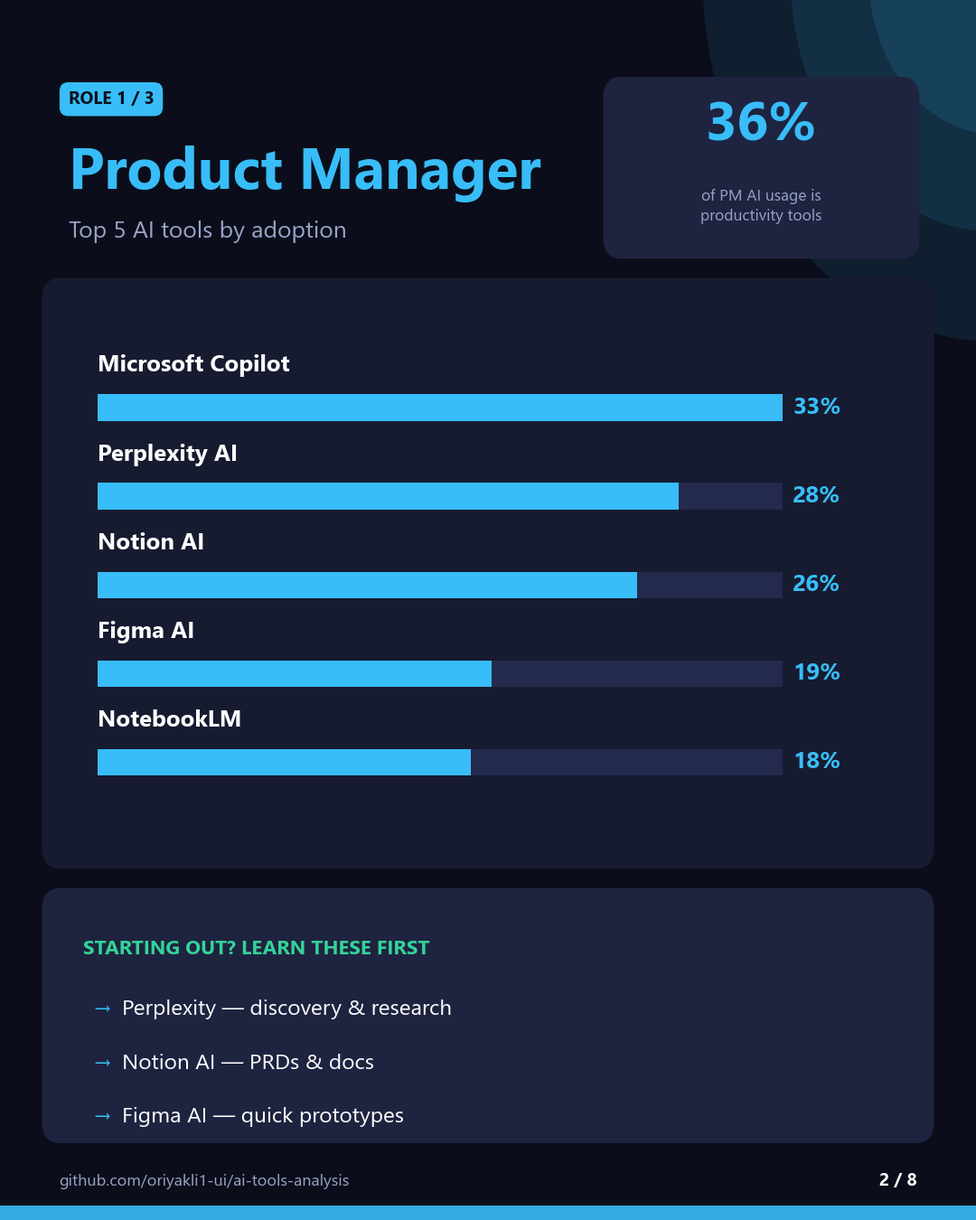
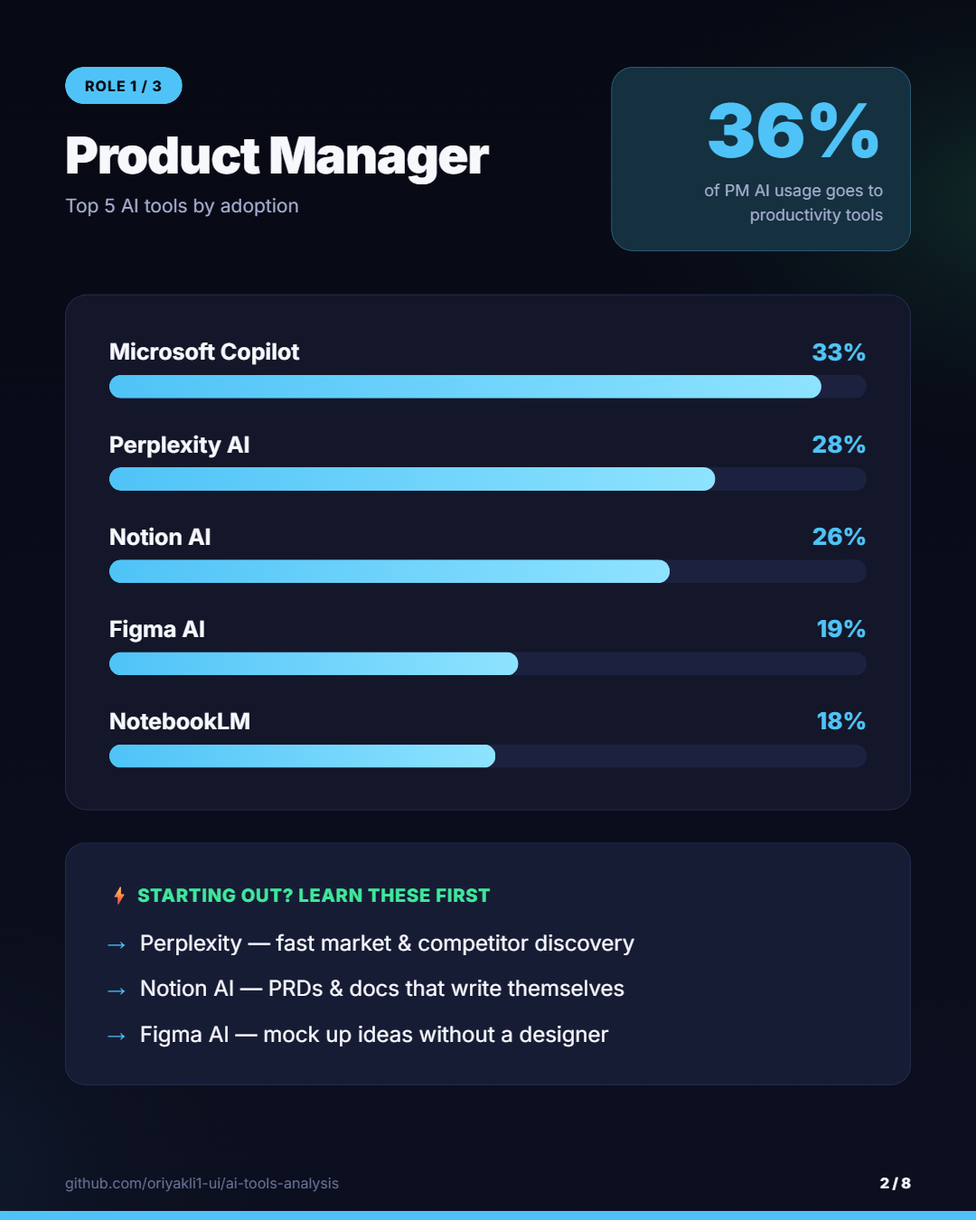
Rebuild carousel as HTML/CSS for crisper typography and real gradients
Replaces matplotlib-rendered slides with an HTML/CSS template
(Inter + JetBrains Mono, card system, gradient accents, glow decor)
rendered via headless browser + html2canvas at true 1080x1350.
Enlarged content and centered layout to remove excess empty space
while keeping slides within bounds (no overflow/clipping).

diff --git a/carousel/html/slides.html b/carousel/html/slides.html
@@ -1,0 +1,363 @@
+<!doctype html>
+<html lang="en">
+<head>
+<meta charset="utf-8">
+<title>AI Tools Carousel</title>
+<link rel="preconnect" href="https://fonts.googleapis.com">
+<link rel="preconnect" href="https://fonts.gstatic.com" crossorigin>
+<link href="https://fonts.googleapis.com/css2?family=Inter:wght@400;500;600;700;800;900&family=JetBrains+Mono:wght@400;500;600&display=swap" rel="stylesheet">
+<style>
+  :root{
+    --bg:#070914; --bg2:#0c0f1f; --card:#131729; --card2:#171c35; --border:#242b4a;
+    --text:#f7f8fc; --muted:#a6afd1; --muted2:#6b7399;
+    --pm:#4fc3f7; --pm-dark:#15303f; --da:#ffb74d; --da-dark:#3f3015;
+    --pj:#e879f9; --pj-dark:#3a1740; --green:#3ee89b; --green-dark:#0c3626;
+  }
+  *{box-sizing:border-box; margin:0; padding:0;}
+  body{background:#333; font-family:'Inter',sans-serif;}
+  .slide{
+    width:1080px; height:1350px;
+    background:
+      radial-gradient(ellipse 950px 550px at 108% -8%, rgba(62,232,155,.16), transparent 60%),
+      radial-gradient(ellipse 750px 550px at -12% 112%, rgba(79,195,247,.10), transparent 60%),
+      linear-gradient(180deg, var(--bg) 0%, var(--bg2) 100%);
+    color:var(--text); position:relative; overflow:hidden; margin-bottom:40px;
+    display:flex; flex-direction:column;
+  }
+  .slide::after{ content:""; position:absolute; left:0; bottom:0; width:100%; height:10px; background:var(--accent, var(--green)); }
+  .pad{ padding:56px 72px; flex:1; display:flex; flex-direction:column; justify-content:center; }
+  .eyebrow{
+    display:inline-flex; align-items:center; gap:8px; align-self:flex-start;
+    background:var(--accent, var(--green)); color:#070914;
+    font-weight:800; font-size:16px; letter-spacing:.06em;
+    padding:11px 22px; border-radius:100px; text-transform:uppercase; margin-bottom:26px;
+  }
+  h1{ font-size:66px; font-weight:900; line-height:1.08; letter-spacing:-.02em; }
+  h1 .accent{ color:var(--accent, var(--green)); }
+  .lede{ font-size:27px; color:var(--muted); line-height:1.55; margin-top:30px; max-width:920px; }
+  .lede b{ color:var(--text); font-weight:700; }
+  .footer{ display:flex; justify-content:space-between; align-items:center; padding:24px 72px 32px; font-size:16px; color:var(--muted2); }
+  .footer b{ color:var(--text); font-weight:800; }
+  .card{ background:var(--card); border:1px solid var(--border); border-radius:24px; padding:46px 48px; }
+  .bar-row{ margin-bottom:34px; }
+  .bar-row:last-child{ margin-bottom:0; }
+  .bar-label{ display:flex; justify-content:space-between; align-items:baseline; margin-bottom:11px; }
+  .bar-name{ font-size:25px; font-weight:700; }
+  .bar-val{ font-size:26px; font-weight:800; }
+  .bar-track{ height:26px; background:#1c2140; border-radius:13px; overflow:hidden; }
+  .bar-fill{ height:100%; border-radius:13px; }
+  .hero-stat{ text-align:right; }
+  .hero-num{ font-size:82px; font-weight:900; line-height:1; }
+  .hero-cap{ font-size:18px; color:var(--muted); margin-top:12px; line-height:1.45; max-width:270px; }
+  .learn-box{ background:var(--card2); border:1px solid var(--border); border-radius:22px; padding:42px 46px; margin-top:36px; }
+  .learn-title{ font-size:20px; font-weight:800; color:var(--green); letter-spacing:.04em; margin-bottom:26px; }
+  .learn-item{ display:flex; gap:16px; font-size:24px; margin-bottom:22px; align-items:center; }
+  .learn-item:last-child{ margin-bottom:0; }
+  .learn-arrow{ font-weight:900; font-size:20px; }
+  .pill{ display:inline-flex; align-items:center; font-weight:800; font-size:33px; color:#070914; padding:26px 42px; border-radius:18px; }
+  .giant{ font-weight:900; line-height:.85; letter-spacing:-.04em; }
+  .mono{ font-family:'JetBrains Mono',monospace; font-size:20px; color:var(--green); background:#0a0d1c; border:1px solid var(--border); border-radius:18px; padding:36px 38px; line-height:1.85; white-space:pre; }
+  .num-badge{ width:80px; height:80px; border-radius:18px; display:flex; align-items:center; justify-content:center; font-weight:900; font-size:32px; flex-shrink:0; }
+  .grad-pm{ background:linear-gradient(135deg,#4fc3f7,#1a7fb5); }
+  .grad-da{ background:linear-gradient(135deg,#ffb74d,#c17f1e); }
+  .grad-pj{ background:linear-gradient(135deg,#e879f9,#a93fc2); }
+  .grad-green{ background:linear-gradient(135deg,#3ee89b,#1a9d68); }
+  .stat-tile{
+    background:var(--card2); border:1px solid var(--border); border-radius:20px;
+    padding:28px 26px; display:flex; align-items:center; gap:18px;
+  }
+  .stat-tile .ic{ font-size:34px; }
+  .stat-tile .tx{ font-size:21px; font-weight:700; color:var(--text); line-height:1.35; }
+</style>
+</head>
+<body>
+
+<!-- ============ SLIDE 1 — COVER ============ -->
+<div class="slide" id="s1" style="--accent:var(--green)">
+  <div class="pad">
+    <div class="eyebrow">★ Career Guide · 2026</div>
+    <h1>The AI tools that<br>actually <span class="accent">get you hired.</span></h1>
+    <div class="lede">
+      I analyzed 25+ AI tools from 2025–26 industry surveys, then removed
+      <b>ChatGPT, Claude & Gemini.</b> Everyone uses a chatbot — that's the
+      baseline now, not a differentiator. Here's what's actually left:
+    </div>
+
+    <div style="margin-top:50px; display:flex; flex-direction:column; gap:24px;">
+      <div class="pill grad-pm" style="width:fit-content;">Product Manager</div>
+      <div class="pill grad-da" style="width:fit-content;">Data Analyst</div>
+      <div class="pill grad-pj" style="width:fit-content;">Project Manager</div>
+    </div>
+
+    <div style="margin-top:60px; display:grid; grid-template-columns:1fr 1fr; gap:22px;">
+      <div class="stat-tile"><span class="ic">📊</span><span class="tx">Top 5 tools<br>per role</span></div>
+      <div class="stat-tile"><span class="ic">🎯</span><span class="tx">What to learn<br>first</span></div>
+      <div class="stat-tile"><span class="ic">🔗</span><span class="tx">The universal<br>stack</span></div>
+      <div class="stat-tile"><span class="ic">🛠</span><span class="tx">Open-source<br>method</span></div>
+    </div>
+
+    </div>
+  <div class="footer">
+    <span>Sources: Lenny's Newsletter · Stack Overflow · Microsoft · PMI</span>
+    <span><b>1 / 8</b></span>
+  </div>
+</div>
+
+<!-- ============ SLIDES 2-4 — ROLES ============ -->
+<!-- Product Manager -->
+<div class="slide" id="s2" style="--accent:var(--pm)">
+  <div class="pad">
+    <div style="display:flex; justify-content:space-between; align-items:flex-start;">
+      <div>
+        <div class="eyebrow" style="background:var(--pm);">Role 1 / 3</div>
+        <h1 style="font-size:56px;">Product Manager</h1>
+        <div style="font-size:21px; color:var(--muted); margin-top:12px;">Top 5 AI tools by adoption</div>
+      </div>
+      <div class="card hero-stat" style="background:var(--pm-dark); border-color:#2a5a73; min-width:250px; padding:28px 30px;">
+        <div class="hero-num" style="color:var(--pm);">36%</div>
+        <div class="hero-cap">of PM AI usage goes to productivity tools</div>
+      </div>
+    </div>
+
+    <div class="card" style="margin-top:48px;">
+      <div class="bar-row"><div class="bar-label"><span class="bar-name">Microsoft Copilot</span><span class="bar-val" style="color:var(--pm);">33%</span></div><div class="bar-track"><div class="bar-fill" style="width:94%; background:linear-gradient(90deg,#4fc3f7,#8ee3ff);"></div></div></div>
+      <div class="bar-row"><div class="bar-label"><span class="bar-name">Perplexity AI</span><span class="bar-val" style="color:var(--pm);">28%</span></div><div class="bar-track"><div class="bar-fill" style="width:80%; background:linear-gradient(90deg,#4fc3f7,#8ee3ff);"></div></div></div>
+      <div class="bar-row"><div class="bar-label"><span class="bar-name">Notion AI</span><span class="bar-val" style="color:var(--pm);">26%</span></div><div class="bar-track"><div class="bar-fill" style="width:74%; background:linear-gradient(90deg,#4fc3f7,#8ee3ff);"></div></div></div>
+      <div class="bar-row"><div class="bar-label"><span class="bar-name">Figma AI</span><span class="bar-val" style="color:var(--pm);">19%</span></div><div class="bar-track"><div class="bar-fill" style="width:54%; background:linear-gradient(90deg,#4fc3f7,#8ee3ff);"></div></div></div>
+      <div class="bar-row"><div class="bar-label"><span class="bar-name">NotebookLM</span><span class="bar-val" style="color:var(--pm);">18%</span></div><div class="bar-track"><div class="bar-fill" style="width:51%; background:linear-gradient(90deg,#4fc3f7,#8ee3ff);"></div></div></div>
+    </div>
+
+    <div class="learn-box">
+      <div class="learn-title">⚡ STARTING OUT? LEARN THESE FIRST</div>
+      <div class="learn-item"><span class="learn-arrow" style="color:var(--pm);">→</span> Perplexity — fast market & competitor discovery</div>
+      <div class="learn-item"><span class="learn-arrow" style="color:var(--pm);">→</span> Notion AI — PRDs & docs that write themselves</div>
+      <div class="learn-item"><span class="learn-arrow" style="color:var(--pm);">→</span> Figma AI — mock up ideas without a designer</div>
+    </div>
+    </div>
+  <div class="footer"><span>github.com/oriyakli1-ui/ai-tools-analysis</span><span><b>2 / 8</b></span></div>
+</div>
+
+<!-- Data Analyst -->
+<div class="slide" id="s3" style="--accent:var(--da)">
+  <div class="pad">
+    <div style="display:flex; justify-content:space-between; align-items:flex-start;">
+      <div>
+        <div class="eyebrow" style="background:var(--da);">Role 2 / 3</div>
+        <h1 style="font-size:56px;">Data Analyst</h1>
+        <div style="font-size:21px; color:var(--muted); margin-top:12px;">Top 5 AI tools by adoption</div>
+      </div>
+      <div class="card hero-stat" style="background:var(--da-dark); border-color:#73581a; min-width:250px; padding:28px 30px;">
+        <div class="hero-num" style="color:var(--da);">57%</div>
+        <div class="hero-cap">of analyst AI usage goes to BI & data tools</div>
+      </div>
+    </div>
+
+    <div class="card" style="margin-top:48px;">
+      <div class="bar-row"><div class="bar-label"><span class="bar-name">Microsoft Copilot</span><span class="bar-val" style="color:var(--da);">38%</span></div><div class="bar-track"><div class="bar-fill" style="width:100%; background:linear-gradient(90deg,#ffb74d,#ffe0a3);"></div></div></div>
+      <div class="bar-row"><div class="bar-label"><span class="bar-name">Power BI Copilot</span><span class="bar-val" style="color:var(--da);">36%</span></div><div class="bar-track"><div class="bar-fill" style="width:95%; background:linear-gradient(90deg,#ffb74d,#ffe0a3);"></div></div></div>
+      <div class="bar-row"><div class="bar-label"><span class="bar-name">GitHub Copilot</span><span class="bar-val" style="color:var(--da);">34%</span></div><div class="bar-track"><div class="bar-fill" style="width:89%; background:linear-gradient(90deg,#ffb74d,#ffe0a3);"></div></div></div>
+      <div class="bar-row"><div class="bar-label"><span class="bar-name">ChatGPT Advanced Data Analysis</span><span class="bar-val" style="color:var(--da);">29%</span></div><div class="bar-track"><div class="bar-fill" style="width:76%; background:linear-gradient(90deg,#ffb74d,#ffe0a3);"></div></div></div>
+      <div class="bar-row"><div class="bar-label"><span class="bar-name">Perplexity AI</span><span class="bar-val" style="color:var(--da);">22%</span></div><div class="bar-track"><div class="bar-fill" style="width:58%; background:linear-gradient(90deg,#ffb74d,#ffe0a3);"></div></div></div>
+    </div>
+
+    <div class="learn-box">
+      <div class="learn-title">⚡ STARTING OUT? LEARN THESE FIRST</div>
+      <div class="learn-item"><span class="learn-arrow" style="color:var(--da);">→</span> Power BI Copilot — core BI, highest-leverage skill</div>
+      <div class="learn-item"><span class="learn-arrow" style="color:var(--da);">→</span> GitHub Copilot — pairs with SQL & Python daily</div>
+      <div class="learn-item"><span class="learn-arrow" style="color:var(--da);">→</span> ChatGPT ADA — fast exploratory analysis</div>
+    </div>
+    </div>
+  <div class="footer"><span>github.com/oriyakli1-ui/ai-tools-analysis</span><span><b>3 / 8</b></span></div>
+</div>
+
+<!-- Project Manager -->
+<div class="slide" id="s4" style="--accent:var(--pj)">
+  <div class="pad">
+    <div style="display:flex; justify-content:space-between; align-items:flex-start;">
+      <div>
+        <div class="eyebrow" style="background:var(--pj);">Role 3 / 3</div>
+        <h1 style="font-size:56px;">Project Manager</h1>
+        <div style="font-size:21px; color:var(--muted); margin-top:12px;">Top 5 AI tools by adoption</div>
+      </div>
+      <div class="card hero-stat" style="background:var(--pj-dark); border-color:#73397a; min-width:250px; padding:28px 30px;">
+        <div class="hero-num" style="color:var(--pj);">72%</div>
+        <div class="hero-cap">of their AI usage is embedded workflow AI</div>
+      </div>
+    </div>
+
+    <div class="card" style="margin-top:48px;">
+      <div class="bar-row"><div class="bar-label"><span class="bar-name">Microsoft Copilot</span><span class="bar-val" style="color:var(--pj);">42%</span></div><div class="bar-track"><div class="bar-fill" style="width:100%; background:linear-gradient(90deg,#e879f9,#f5bcff);"></div></div></div>
+      <div class="bar-row"><div class="bar-label"><span class="bar-name">Notion AI</span><span class="bar-val" style="color:var(--pj);">22%</span></div><div class="bar-track"><div class="bar-fill" style="width:52%; background:linear-gradient(90deg,#e879f9,#f5bcff);"></div></div></div>
+      <div class="bar-row"><div class="bar-label"><span class="bar-name">Grammarly AI</span><span class="bar-val" style="color:var(--pj);">21%</span></div><div class="bar-track"><div class="bar-fill" style="width:50%; background:linear-gradient(90deg,#e879f9,#f5bcff);"></div></div></div>
+      <div class="bar-row"><div class="bar-label"><span class="bar-name">Jira AI (Atlassian Intelligence)</span><span class="bar-val" style="color:var(--pj);">19%</span></div><div class="bar-track"><div class="bar-fill" style="width:45%; background:linear-gradient(90deg,#e879f9,#f5bcff);"></div></div></div>
+      <div class="bar-row"><div class="bar-label"><span class="bar-name">Otter.ai</span><span class="bar-val" style="color:var(--pj);">16%</span></div><div class="bar-track"><div class="bar-fill" style="width:38%; background:linear-gradient(90deg,#e879f9,#f5bcff);"></div></div></div>
+    </div>
+
+    <div class="learn-box">
+      <div class="learn-title">⚡ STARTING OUT? LEARN THESE FIRST</div>
+      <div class="learn-item"><span class="learn-arrow" style="color:var(--pj);">→</span> Copilot in Office/Teams — where the work already is</div>
+      <div class="learn-item"><span class="learn-arrow" style="color:var(--pj);">→</span> Jira or Asana AI — automate planning & status</div>
+      <div class="learn-item"><span class="learn-arrow" style="color:var(--pj);">→</span> Otter.ai — never write meeting notes again</div>
+    </div>
+    </div>
+  <div class="footer"><span>github.com/oriyakli1-ui/ai-tools-analysis</span><span><b>4 / 8</b></span></div>
+</div>
+
+<!-- ============ SLIDE 5 — UNIVERSAL STACK ============ -->
+<div class="slide" id="s5" style="--accent:var(--green)">
+  <div class="pad">
+    <div style="font-size:26px; color:var(--muted); font-weight:600;">Out of 25+ tools, only</div>
+    <div style="display:flex; align-items:center; gap:40px; margin-top:6px;">
+      <div class="giant accent" style="font-size:270px; color:var(--green);">3</div>
+      <div>
+        <div style="font-size:42px; font-weight:800; line-height:1.25;">work across<br>all three roles</div>
+        <div style="font-size:21px; color:var(--muted); margin-top:14px;">the safe bets for any CV in this space</div>
+      </div>
+    </div>
+
+    <div style="display:flex; flex-direction:column; gap:30px; margin-top:44px;">
+      <div class="card">
+        <div style="font-size:33px; font-weight:800; margin-bottom:26px;">Microsoft Copilot</div>
+        <div style="display:flex; gap:50px;">
+          <div style="flex:1;"><div style="display:flex; justify-content:space-between; font-size:19px; color:var(--muted); margin-bottom:10px;"><span>Product</span><b style="color:var(--pm); font-size:21px;">33</b></div><div class="bar-track" style="height:20px;"><div class="bar-fill" style="width:78%; background:var(--pm);"></div></div></div>
+          <div style="flex:1;"><div style="display:flex; justify-content:space-between; font-size:19px; color:var(--muted); margin-bottom:10px;"><span>Data</span><b style="color:var(--da); font-size:21px;">38</b></div><div class="bar-track" style="height:20px;"><div class="bar-fill" style="width:90%; background:var(--da);"></div></div></div>
+          <div style="flex:1;"><div style="display:flex; justify-content:space-between; font-size:19px; color:var(--muted); margin-bottom:10px;"><span>Project</span><b style="color:var(--pj); font-size:21px;">42</b></div><div class="bar-track" style="height:20px;"><div class="bar-fill" style="width:100%; background:var(--pj);"></div></div></div>
+        </div>
+      </div>
+      <div class="card">
+        <div style="font-size:33px; font-weight:800; margin-bottom:26px;">Perplexity AI</div>
+        <div style="display:flex; gap:50px;">
+          <div style="flex:1;"><div style="display:flex; justify-content:space-between; font-size:19px; color:var(--muted); margin-bottom:10px;"><span>Product</span><b style="color:var(--pm); font-size:21px;">28</b></div><div class="bar-track" style="height:20px;"><div class="bar-fill" style="width:67%; background:var(--pm);"></div></div></div>
+          <div style="flex:1;"><div style="display:flex; justify-content:space-between; font-size:19px; color:var(--muted); margin-bottom:10px;"><span>Data</span><b style="color:var(--da); font-size:21px;">22</b></div><div class="bar-track" style="height:20px;"><div class="bar-fill" style="width:52%; background:var(--da);"></div></div></div>
+          <div style="flex:1;"><div style="display:flex; justify-content:space-between; font-size:19px; color:var(--muted); margin-bottom:10px;"><span>Project</span><b style="color:var(--pj); font-size:21px;">12</b></div><div class="bar-track" style="height:20px;"><div class="bar-fill" style="width:29%; background:var(--pj);"></div></div></div>
+        </div>
+      </div>
+      <div class="card">
+        <div style="font-size:33px; font-weight:800; margin-bottom:26px;">GitHub Copilot</div>
+        <div style="display:flex; gap:50px;">
+          <div style="flex:1;"><div style="display:flex; justify-content:space-between; font-size:19px; color:var(--muted); margin-bottom:10px;"><span>Product</span><b style="color:var(--pm); font-size:21px;">15</b></div><div class="bar-track" style="height:20px;"><div class="bar-fill" style="width:36%; background:var(--pm);"></div></div></div>
+          <div style="flex:1;"><div style="display:flex; justify-content:space-between; font-size:19px; color:var(--muted); margin-bottom:10px;"><span>Data</span><b style="color:var(--da); font-size:21px;">34</b></div><div class="bar-track" style="height:20px;"><div class="bar-fill" style="width:81%; background:var(--da);"></div></div></div>
+          <div style="flex:1;"><div style="display:flex; justify-content:space-between; font-size:19px; color:var(--muted); margin-bottom:10px;"><span>Project</span><b style="color:var(--pj); font-size:21px;">6</b></div><div class="bar-track" style="height:20px;"><div class="bar-fill" style="width:14%; background:var(--pj);"></div></div></div>
+        </div>
+      </div>
+    </div>
+    <div style="margin-top:40px; font-size:21px; color:var(--muted);">Everything else in the dataset belongs to a single role. Specialize beyond these three.</div>
+    </div>
+  <div class="footer"><span>github.com/oriyakli1-ui/ai-tools-analysis</span><span><b>5 / 8</b></span></div>
+</div>
+
+<!-- ============ SLIDE 6 — CATEGORY MIX ============ -->
+<div class="slide" id="s6" style="--accent:var(--pm)">
+  <div class="pad">
+    <h1 style="font-size:48px;">Where each role spends its AI time</h1>
+    <div style="font-size:19px; color:var(--muted); margin-top:12px; margin-bottom:28px;">Top 3 categories by usage share — three very different skill sets</div>
+
+    <div style="display:flex; flex-direction:column; gap:20px;">
+      <!-- PM panel -->
+      <div class="card" style="padding:32px 36px;">
+        <div style="display:flex; justify-content:space-between; align-items:baseline; margin-bottom:20px;">
+          <div style="font-size:27px; font-weight:800; color:var(--pm);">Product Manager</div>
+          <div style="font-size:19px; font-weight:800; color:var(--pm);">36% Productivity</div>
+        </div>
+        <div class="bar-row" style="margin-bottom:16px;"><div class="bar-label"><span class="bar-name" style="font-size:18px;">Productivity</span><span class="bar-val" style="font-size:18px;">36%</span></div><div class="bar-track" style="height:16px;"><div class="bar-fill" style="width:90%; background:var(--pm);"></div></div></div>
+        <div class="bar-row" style="margin-bottom:16px;"><div class="bar-label"><span class="bar-name" style="font-size:18px;">Design & Creative</span><span class="bar-val" style="font-size:18px;">19%</span></div><div class="bar-track" style="height:16px;"><div class="bar-fill" style="width:47%; background:var(--pm);"></div></div></div>
+        <div class="bar-row" style="margin-bottom:0;"><div class="bar-label"><span class="bar-name" style="font-size:18px;">Research & Search</span><span class="bar-val" style="font-size:18px;">18%</span></div><div class="bar-track" style="height:16px;"><div class="bar-fill" style="width:45%; background:var(--pm);"></div></div></div>
+      </div>
+      <!-- DA panel -->
+      <div class="card" style="padding:32px 36px;">
+        <div style="display:flex; justify-content:space-between; align-items:baseline; margin-bottom:20px;">
+          <div style="font-size:27px; font-weight:800; color:var(--da);">Data Analyst</div>
+          <div style="font-size:19px; font-weight:800; color:var(--da);">57% Data & BI</div>
+        </div>
+        <div class="bar-row" style="margin-bottom:16px;"><div class="bar-label"><span class="bar-name" style="font-size:18px;">Data Analysis & BI</span><span class="bar-val" style="font-size:18px;">57%</span></div><div class="bar-track" style="height:16px;"><div class="bar-fill" style="width:100%; background:var(--da);"></div></div></div>
+        <div class="bar-row" style="margin-bottom:16px;"><div class="bar-label"><span class="bar-name" style="font-size:18px;">Coding & Development</span><span class="bar-val" style="font-size:18px;">25%</span></div><div class="bar-track" style="height:16px;"><div class="bar-fill" style="width:44%; background:var(--da);"></div></div></div>
+        <div class="bar-row" style="margin-bottom:0;"><div class="bar-label"><span class="bar-name" style="font-size:18px;">Research & Search</span><span class="bar-val" style="font-size:18px;">15%</span></div><div class="bar-track" style="height:16px;"><div class="bar-fill" style="width:27%; background:var(--da);"></div></div></div>
+      </div>
+      <!-- PJ panel -->
+      <div class="card" style="padding:32px 36px;">
+        <div style="display:flex; justify-content:space-between; align-items:baseline; margin-bottom:20px;">
+          <div style="font-size:27px; font-weight:800; color:var(--pj);">Project Manager</div>
+          <div style="font-size:19px; font-weight:800; color:var(--pj);">72% Productivity</div>
+        </div>
+        <div class="bar-row" style="margin-bottom:16px;"><div class="bar-label"><span class="bar-name" style="font-size:18px;">Productivity & Automation</span><span class="bar-val" style="font-size:18px;">72%</span></div><div class="bar-track" style="height:16px;"><div class="bar-fill" style="width:100%; background:var(--pj);"></div></div></div>
+        <div class="bar-row" style="margin-bottom:16px;"><div class="bar-label"><span class="bar-name" style="font-size:18px;">Writing & Content</span><span class="bar-val" style="font-size:18px;">13%</span></div><div class="bar-track" style="height:16px;"><div class="bar-fill" style="width:18%; background:var(--pj);"></div></div></div>
+        <div class="bar-row" style="margin-bottom:0;"><div class="bar-label"><span class="bar-name" style="font-size:18px;">Data Analysis & BI</span><span class="bar-val" style="font-size:18px;">6%</span></div><div class="bar-track" style="height:16px;"><div class="bar-fill" style="width:8%; background:var(--pj);"></div></div></div>
+      </div>
+    </div>
+    <div style="margin-top:26px; font-size:19px; color:var(--muted);">Don't copy another role's AI stack. Build the one that matches your actual day.</div>
+    </div>
+  <div class="footer"><span>github.com/oriyakli1-ui/ai-tools-analysis</span><span><b>6 / 8</b></span></div>
+</div>
+
+<!-- ============ SLIDE 7 — HOW I BUILT THIS ============ -->
+<div class="slide" id="s7" style="--accent:var(--da)">
+  <div class="pad">
+    <h1 style="font-size:54px;">How I built this</h1>
+    <div style="font-size:20px; color:var(--muted); margin-top:12px; margin-bottom:36px;">The same skills these roles ask for — shipped as a mini project</div>
+
+    <div style="display:flex; flex-direction:column; gap:26px;">
+      <div class="card" style="display:flex; gap:32px; align-items:flex-start; padding:38px 42px;">
+        <div class="num-badge grad-pm">01</div>
+        <div><div style="font-size:27px; font-weight:800; color:var(--pm); margin-bottom:12px;">COLLECT</div>
+        <div style="font-size:20px; color:var(--muted); line-height:1.6;">7+ surveys & reports: Lenny's Newsletter, Stack Overflow, Microsoft, PMI, Pragmatic Engineer</div></div>
+      </div>
+      <div class="card" style="display:flex; gap:32px; align-items:flex-start; padding:38px 42px;">
+        <div class="num-badge grad-da">02</div>
+        <div><div style="font-size:27px; font-weight:800; color:var(--da); margin-bottom:12px;">STRUCTURE</div>
+        <div style="font-size:20px; color:var(--muted); line-height:1.6;">Normalized into a clean CSV — tool × role × adoption score × source (46 rows)</div></div>
+      </div>
+      <div class="card" style="display:flex; gap:32px; align-items:flex-start; padding:38px 42px;">
+        <div class="num-badge grad-pj">03</div>
+        <div><div style="font-size:27px; font-weight:800; color:var(--pj); margin-bottom:12px;">ANALYZE</div>
+        <div style="font-size:20px; color:var(--muted); line-height:1.6;">7 SQL queries — window functions, anti-joins, cohort splits. Runs on SQLite</div></div>
+      </div>
+      <div class="card" style="display:flex; gap:32px; align-items:flex-start; padding:38px 42px;">
+        <div class="num-badge grad-green">04</div>
+        <div><div style="font-size:27px; font-weight:800; color:var(--green); margin-bottom:12px;">VISUALIZE</div>
+        <div style="font-size:20px; color:var(--muted); line-height:1.6;">Power BI dashboard spec with DAX measures. All open-source on GitHub</div></div>
+      </div>
+    </div>
+
+    <div class="mono" style="margin-top:34px;">SELECT tool_name, COUNT(DISTINCT job_role) AS roles
+FROM ai_tools_usage
+GROUP BY tool_name
+HAVING roles = 3;   <span style="color:#6b7399">-- the universal stack</span></div>
+    </div>
+  <div class="footer"><span>github.com/oriyakli1-ui/ai-tools-analysis</span><span><b>7 / 8</b></span></div>
+</div>
+
+<!-- ============ SLIDE 8 — TAKEAWAYS + CTA ============ -->
+<div class="slide" id="s8" style="--accent:var(--green)">
+  <div class="pad">
+    <h1 style="font-size:54px;">Remember 3 things</h1>
+
+    <div style="display:flex; flex-direction:column; gap:24px; margin-top:40px;">
+      <div class="card" style="display:flex; gap:30px; align-items:flex-start; padding:38px 42px;">
+        <div class="giant" style="font-size:58px; color:var(--pm); width:64px;">1</div>
+        <div><div style="font-size:29px; font-weight:800; margin-bottom:12px;">Embedded beats standalone</div>
+        <div style="font-size:20px; color:var(--muted); line-height:1.6;">Microsoft Copilot is #1 in every role (33–42%). AI living inside your workflow wins over AI as a destination.</div></div>
+      </div>
+      <div class="card" style="display:flex; gap:30px; align-items:flex-start; padding:38px 42px;">
+        <div class="giant" style="font-size:58px; color:var(--da); width:64px;">2</div>
+        <div><div style="font-size:29px; font-weight:800; margin-bottom:12px;">The universal stack is 3 tools</div>
+        <div style="font-size:20px; color:var(--muted); line-height:1.6;">MS Copilot · Perplexity · GitHub Copilot. After that — specialize hard for your target role.</div></div>
+      </div>
+      <div class="card" style="display:flex; gap:30px; align-items:flex-start; padding:38px 42px;">
+        <div class="giant" style="font-size:58px; color:var(--pj); width:64px;">3</div>
+        <div><div style="font-size:29px; font-weight:800; margin-bottom:12px;">It's not too late</div>
+        <div style="font-size:20px; color:var(--muted); line-height:1.6;">Tools launched since 2023 already match pre-GenAI incumbents in adoption. The field is still young.</div></div>
+      </div>
+    </div>
+
+    <div class="card" style="margin-top:36px; background:var(--card2); padding:44px 46px;">
+      <div style="font-size:30px; font-weight:800; margin-bottom:18px;">Job hunting in PM, data or product?</div>
+      <div style="font-size:27px; font-weight:800; color:var(--green); margin-bottom:26px;">💾 Save this post &nbsp;·&nbsp; 🔁 Tag a friend who needs it</div>
+      <div style="font-size:19px; color:var(--muted); margin-bottom:10px;">Full dataset, SQL queries & Power BI guide — free:</div>
+      <div style="font-size:22px; font-weight:800;">github.com/oriyakli1-ui/ai-tools-analysis</div>
+    </div>
+    </div>
+  <div class="footer"><span>github.com/oriyakli1-ui/ai-tools-analysis</span><span><b>8 / 8</b></span></div>
+</div>
+
+</body>
+</html>

diff --git a/carousel/html/save_server.py b/carousel/html/save_server.py
@@ -1,0 +1,29 @@
+import http.server, base64, os, json
+
+OUT_DIR = r"C:\Users\oriya\ai-tools-analysis\carousel"
+
+class Handler(http.server.SimpleHTTPRequestHandler):
+    def do_POST(self):
+        length = int(self.headers.get('Content-Length', 0))
+        body = self.rfile.read(length)
+        data = json.loads(body)
+        name = data['name']
+        b64 = data['dataUrl'].split(',', 1)[1]
+        with open(os.path.join(OUT_DIR, name), 'wb') as f:
+            f.write(base64.b64decode(b64))
+        self.send_response(200)
+        self.send_header('Access-Control-Allow-Origin', '*')
+        self.end_headers()
+        self.wfile.write(b'ok')
+
+    def do_OPTIONS(self):
+        self.send_response(200)
+        self.send_header('Access-Control-Allow-Origin', '*')
+        self.send_header('Access-Control-Allow-Methods', 'POST, OPTIONS')
+        self.send_header('Access-Control-Allow-Headers', 'Content-Type')
+        self.end_headers()
+
+    def log_message(self, fmt, *args):
+        pass
+
+http.server.HTTPServer(('localhost', 8732), Handler).serve_forever()
